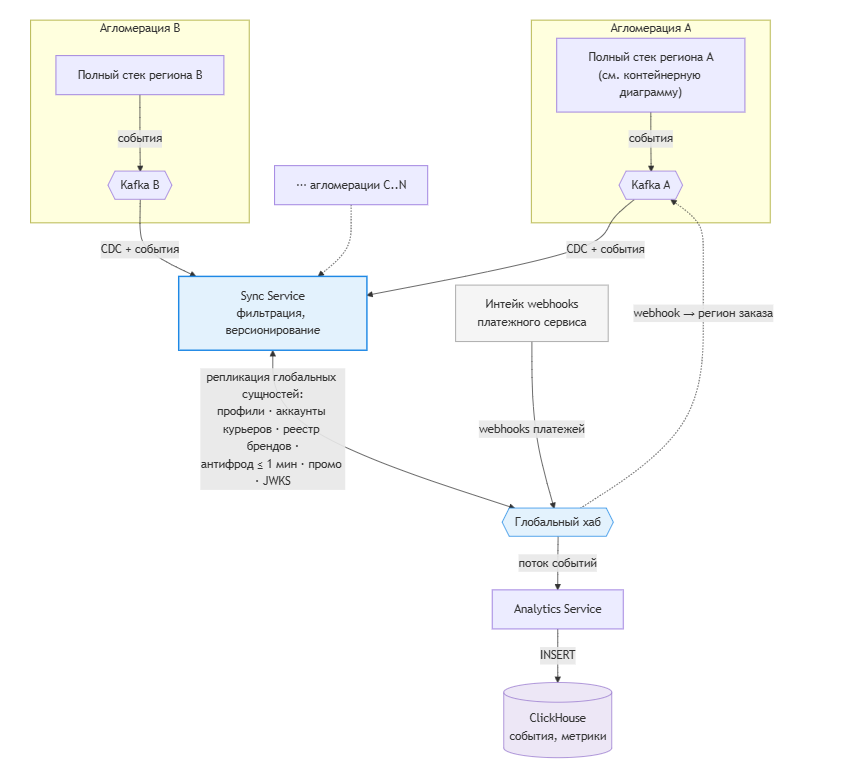
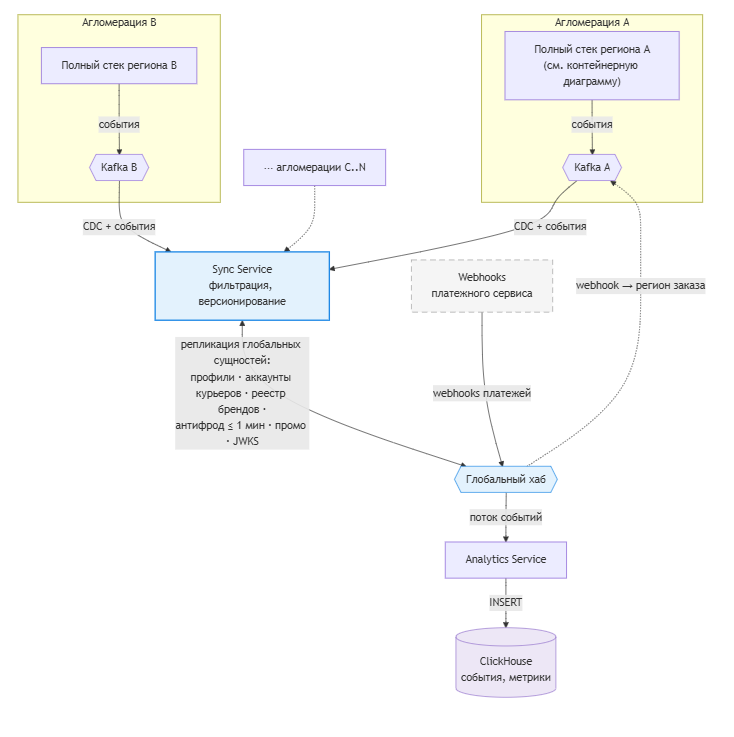
ДЗ №2, доработки #3

diff --git a/hw_02/solution/README.md b/hw_02/solution/README.md
@@ -190,7 +190,7 @@ flowchart TB
 
     SYNC["Sync Service<br/>фильтрация, версионирование"]
     HUB{{"Глобальный хаб"}}
-    AW["Интейк webhooks<br/>платежного сервиса"]
+    AW["Webhooks<br/>платежного сервиса"]
     AN["Analytics Service"]
     CH[("ClickHouse<br/>события, метрики")]
 
@@ -206,9 +206,11 @@ flowchart TB
 
     style SYNC fill:#e3f2fd,stroke:#1e88e5,stroke-width:2px
     style HUB fill:#e3f2fd,stroke:#1e88e5
-    style AW fill:#f5f5f5,stroke:#9e9e9e
+    style AW fill:#f5f5f5,stroke:#9e9e9e,stroke-dasharray: 8 6
     style CH fill:#ede7f6,stroke:#9575cd
 ```
+
+> Webhook платежного сервиса это опциональная сущность для поддержки единой точки входа банков, как альтернатива региональным (своим для каждой агломерации), чтобы не создавать много PaymentGW.
 
 | Данные | Владелец (кто пишет) | Куда реплицируется | Свежесть |
 | --- | --- | --- | --- |
@@ -402,7 +404,7 @@ flowchart TB
 | Сервисы → адаптеры (Pay/POS/Tel) | gRPC | Внутренний контракт. Снаружи у адаптера - то, что умеет партнёр. |
 | Адаптеры → платёжка, POS, телефония, гео | HTTPS REST + webhooks | Так устроены iiko/Syrve, эквайринг, маскированные звонки, картографические API. Свой gRPC туда не протащить. |
 | Сервисы → шина | Kafka (события) | Заказ затрагивает Delivery, Notify, POS. Не держим HTTP, пока курьер принимает оффер или кухня готовит. |
-| Notify → SMS / PUSH / почта | HTTPS / HTTP/2 / SMTP | Собственные протоколы шлюзов. FCM/APNs - HTTP/2. |
+| Notify → SMS / PUSH / почта | HTTPS / HTTP/2 / SMTP | Собственные протоколы шлюзов. FCM (пуш на Android, Google) или APNs (Apple Push Notification service) - HTTP/2. |
 | Сервисы → данные | SQL, RESP, S3 API | Собственные протоколы хранилищ, не «REST к своей БД». |
 | Регион ↔ хаб | CDC + события Kafka | См. сервис синхронизации. Не синхронный REST между агломерациями. |
 
@@ -422,33 +424,6 @@ flowchart TB
 Клиент получает `201` сразу после создания платежа. Подтверждение оплаты, кухня и вызов курьера - после webhook, не в том же HTTP-запросе.
 
 ![Создание заказа и оплата](diagrams/sequence-create-order.png)
-
-```mermaid
-sequenceDiagram
-    actor Client
-    participant BFF
-    participant Orders
-    participant Catalog
-    participant PayGW
-    participant POSGW
-    participant Kafka
-
-    Client->>BFF: HTTPS REST POST /v1/orders
-    BFF->>Orders: gRPC CreateOrder
-    Orders->>Catalog: gRPC ApplyPromo
-    Catalog-->>Orders: скидка / отказ
-    Orders->>PayGW: gRPC CreatePayment
-    PayGW-->>Orders: payment_url
-    Orders->>Kafka: OrderCreated
-    BFF-->>Client: 201 {order_id, payment_url}
-
-    Note over PayGW,Kafka: асинхронно
-    PayGW->>PayGW: HTTPS webhook payment.succeeded
-    PayGW->>Kafka: PaymentSucceeded
-    Kafka->>Orders: PaymentSucceeded
-    Orders->>POSGW: gRPC SubmitOrder
-    Orders->>Kafka: OrderPaid
-```
 
 ### Выбор курьера
 
@@ -708,17 +683,17 @@ message CreateOrderResponse {
 
 | Место | Механизм | Почему не синхронно |
 | --- | --- | --- |
-| Подтверждение оплаты | webhook → Kafka `PaymentSucceeded` | 3-D Secure / СБП занимают секунды–минуты. HTTP создания заказа к этому моменту уже закрыт. |
+| Подтверждение оплаты | webhook → Kafka | 3-D Secure / СБП занимают секунды–минуты. HTTP создания заказа к этому моменту уже закрыт. |
 | Передача на кухню и статусы POS | gRPC SubmitOrder + webhook/Kafka | POS может быть недоступен; ретраи и повторная доставка статуса не должны блокировать клиента. |
 | Вызов курьера | Kafka + PUSH + accept | Оффер висит десятки секунд. Держать POST /orders открытым нельзя. |
 | SMS / PUSH / email | Kafka → Notify | Шлюзы медленные и с квотами. Отказ SMS не должен откатывать заказ. |
-| OTP при входе | Kafka `OtpRequested` → Notify | Auth отвечает «код отправлен»; доставка - отдельно. |
-| Трекинг | WSS + Redis pub/sub + gRPC stream | 20–30k курьеров на линии × точка каждые 3–5 с - это тысячи RPS. Писать каждую точку в PostgreSQL и отдавать поллингом некуда. |
-| Чат Support, если получатель офлайн | Kafka → Notify | Сообщение сохранено в PG (тред обращения); PUSH - лучший effort. |
+| OTP при входе | Kafka → Notify | Auth отвечает «код отправлен»; доставка - отдельно. |
+| Трекинг | WSS + Redis pub/sub + gRPC stream | 20–30k курьеров на линии × точка каждые 3–5 с - это тысячи RPS. Писать каждую точку в PostgreSQL (INSERT или UPDATE) не имеет смысла, лучше координата курьера в REDIS с TTL. |
+| Чат Support, если получатель офлайн | Kafka → Notify | Сообщение сохранено в PG (тред обращения); PUSH — необязательная часть: попытались разбудить телефон, если нет, то пользователь увидит когда зайдет в чат. |
 | Синхронизация регионов | CDC + хаб | Профиль в другом городе не обязан появиться в ту же миллисекунду. Антифрод - исключение (≤ 1 мин). |
 | Аналитика | one-way поток в центр | Не в критическом пути заказа. |
 
-Идемпотентность на входе в асинхронный контур: `idempotency_key` на создание заказа, `event_id` на webhooks, атомарный claim оффера в Redis (`SET NX` / Lua). Повтор webhook с тем же `event_id` - тот же `200`, без второго `SubmitOrder`.
+Идемпотентность на входе в асинхронный контур: `idempotency_key` на создание заказа, `event_id` на webhooks, атомарная процедура приема оффера в Redis (`SET NX` / Lua). Повтор webhook с тем же `event_id` - тот же `200`, без второго `SubmitOrder`.
 
 Что не делаем асинхронно: проверка промокода и стоп-листа в момент checkout (клиент должен сразу увидеть отказ), accept оффера (курьер должен сразу узнать, что заказ его).
 
